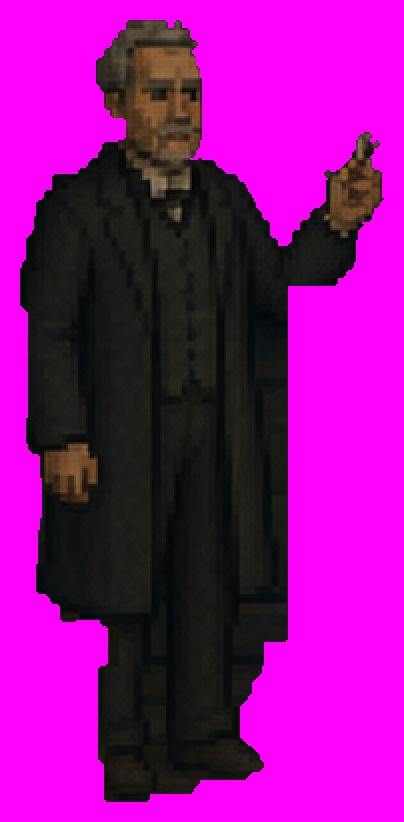
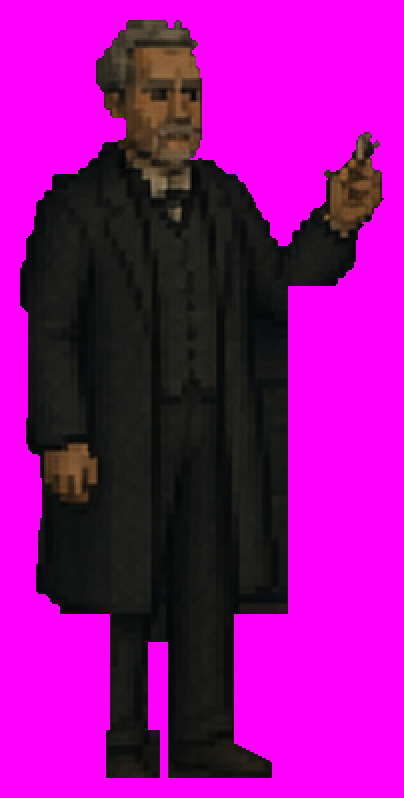
Room 4: Sowerby's legs traced below the coat
Tyler: "The judge is missing part of his leg." Below the hem GrabCut had
taken in wall beside and between the legs and 20 px of floor under the
boots; that wall, drawn 118 px from where it was painted, read as a piece
out of the leg. From the hem down the outline is now traced off the
derived picture (renders/room-04-sowerby-legs.png), ending at his soles on
the floor line, y 513, where the room's curve gives 437; the annotation's
beyond sample moved with it. No image operation.

Claude-Session: https://claude.ai/code/session_01FXbCurjq3gWmZKUYv89gwi

diff --git a/tools/art/room04-sowerby.py b/tools/art/room04-sowerby.py
@@ -23,10 +23,10 @@ moved 118 px right, into the gap between that chair and the table's left end
 -- still at the back wall and the chalkboard, boots on the same floor line.
 
 HIS HEIGHT IS THE ROOM'S CURVE. Room 4's depth note is a standing man of 470 at
-y 600 and 560 at y 840; at his feet (y 525) that is 442, and the room declares
+y 600 and 560 at y 840; at his soles (y 513) that is 437, and the room declares
 it as its `beyond` sample (reference/room-04/annotation.json). The edit drew
-him 391, which beside the seated judges read as a boy; he is resampled once
-to 442 (Lanczos, alpha re-thresholded), the same resampler every plate in the
+him 379, which beside the seated judges read as a boy; he is resampled once
+to 437 (Lanczos, alpha re-thresholded), the same resampler every plate in the
 room has been through.
 
 THE PENCIL. Errata 75: "Sowerby holds the pencil", and the plate paints the
@@ -59,7 +59,25 @@ GAP = 2
 WORK = (380, 100, 640, 540)     # GrabCut's window
 CHAIR_LINE = 300                # above it the base is plain wall and slate; below, the base's chair
 SHIFT = 118                     # clear of the front chair's back, short of the table's end
-HEIGHT = 442                    # the room's curve at y 525 (annotation `beyond`)
+HEIGHT = 437                    # the room's curve at his soles, y 513 (annotation `beyond`)
+# BELOW THE HEM, TRACED. Tyler, 2026-11-01, on the first cut in the game: "The
+# judge is missing part of his leg." Black trousers on a dark wall, with the
+# chair's seat touching the left leg: GrabCut took in wall beside and between
+# the legs, and 20 px of floor under the boots, and that wall, drawn 118 px
+# from where it was painted, read as a piece out of his leg. So from the coat's
+# hem down the outline is the derived picture's own, read off it brightened
+# (renders/room-04-sowerby-legs.png): rows, then the columns his legs and boots
+# fill, ending at the soles on the floor line.
+HEM = 432
+LEGS = [(HEM, 446, 452, 514),      # y0, y1, x0, x1: the tops of both legs, under the coat
+        (446, 490, 452, 471),      # the left leg: the chair seat ends at x 452
+        (446, 490, 481, 514),      # the right leg. Between them is wall: the plank seam
+                                   # at y 452 runs through x 471-481 level with the one
+                                   # right of his legs
+        (490, 514, 450, 477)]      # the left boot
+# THE RIGHT BOOT rises from its heel to its toe: wall above that line stays out.
+TOE = [(y, 481, 514 if y < 496 else min(533, 514 + 2 * (y - 496))) for y in range(490, 514)]
+SOLES = 514
 PENCIL = (772, 333, 850, 376)   # the judges' pencil on the plate, with its shadow, below judge 1's hands
 WOOD_FROM = 84                  # bare table this far right of it
 
@@ -112,8 +130,14 @@ cv2.grabCut(crop, gc, None, bgm, fgm, 8, cv2.GC_INIT_WITH_MASK)
 mask = np.zeros(lum.shape, bool)
 mask[Y0:Y1, X0:X1] = largest(ndi.binary_opening((gc == cv2.GC_FGD) | (gc == cv2.GC_PR_FGD), iterations=1))
 
+mask[HEM:, :] = False
+for y0, y1, x0, x1 in LEGS:
+    mask[y0:y1, x0:x1] = True
+for y, x0, x1 in TOE:
+    mask[y, x0:x1] = True
 ys, xs = np.where(mask)
 t, bot, l, rt = ys.min(), ys.max() + 1, xs.min(), xs.max() + 1
+assert bot == SOLES, bot
 fig = np.asarray(Image.open(DERIVED).convert('RGBA'))[t:bot, l:rt].copy()
 fig[..., 3] = np.where(mask[t:bot, l:rt], 255, 0)
 drawn = bot - t
@@ -165,3 +189,12 @@ view[~mask[t - 10:bot + 10, l - 10:rt + 10]] = [255, 0, 255]
 Image.fromarray(view).resize((view.shape[1] * 2, view.shape[0] * 2), Image.NEAREST).save(
     os.path.join(ROOT, 'renders/room-04-sowerby-cut.png'))
 print(json.dumps({k: record[k] for k in ('frames', 'anchor', 'drawnHeight', 'height', 'pixels')}))
+
+# The reading the legs were traced from: the derived picture brightened, with the traced outline.
+from PIL import ImageDraw, ImageEnhance
+legs = ImageEnhance.Brightness(Image.open(DERIVED).convert('RGB').crop((420, 400, 540, 530))).enhance(3.0)
+legs = legs.resize((960, 1040), Image.NEAREST)
+pen = ImageDraw.Draw(legs)
+for y0, y1, x0, x1 in LEGS + [(y, y + 1, x0, x1) for y, x0, x1 in TOE]:
+    pen.rectangle(((x0 - 420) * 8, (y0 - 400) * 8, (x1 - 420) * 8 - 1, (y1 - 400) * 8 - 1), outline=(255, 0, 255))
+legs.save(os.path.join(ROOT, 'renders/room-04-sowerby-legs.png'))

diff --git a/docs/36-issue-list.md b/docs/36-issue-list.md
@@ -4704,7 +4704,7 @@ Built under doc 55 section 3 after errata 73 cleared Q146. Reachable at `?room=n
 **Tyler's first look (2026-11-01), and what was done:**
 - **"The 4 guys in the back row all have pieces of them missing. The guy on the far left doesn't even have legs."**
 - **The judges: corrected, no image operation.** The first cut thresholded each pixel of master-minus-plate on its own; where a dark coat differs from the dark wall by less than resampling noise, those pixels dropped, leaving holes and loose outline pixels. `tools/art/room04-judges.py` now thresholds the difference averaged over 5 px, closes and fills it, keeps each man's largest piece, and fills it row by row. The lamp's brass foot and the corner Deke's hat covers in the master stay the plate's. Re-promoted provisionally; anchors and frames updated in `content/ambient/room-04-judge-{1,2,3}.json`.
-- **Sowerby: redrawn whole, room-04's fourth and last operation (Tyler: "Option 1, redraw Sowerby and fix the pencil too").** His legs were not missing from the cut: operation 3's prompt stood him "behind the LEFT end of the long table... the table hides him below the waist", and the table does not reach where he was drawn, so they existed in no source. Operation 4 (`reference/room-04/prompts/sowerby-02.txt`) edited the room as it stands, Thad and the re-cut judges in place, and asked for him full length at the chalkboard. His black coat on the dark wall defeats a plain threshold, so `tools/art/room04-sowerby.py` cuts him with GrabCut (OpenCV), seeded from the change above the chair line and his dark silhouette below it. The edit drew him where the front chair stands, in front of him, so he moves 118 px right into the gap between that chair and the table's end. The edit drew him 391 tall, which read as a boy beside the judges; he is resampled to the room's curve, 442 at his feet (y 525), which the annotation now declares as its `beyond` sample, and he is `standing` under the scale test. Texture 2.07 against Thad's 4.27; the judges measure 3.2 to 3.9.
+- **Sowerby: redrawn whole, room-04's fourth and last operation (Tyler: "Option 1, redraw Sowerby and fix the pencil too").** His legs were not missing from the cut: operation 3's prompt stood him "behind the LEFT end of the long table... the table hides him below the waist", and the table does not reach where he was drawn, so they existed in no source. Operation 4 (`reference/room-04/prompts/sowerby-02.txt`) edited the room as it stands, Thad and the re-cut judges in place, and asked for him full length at the chalkboard. His black coat on the dark wall defeats a plain threshold, so `tools/art/room04-sowerby.py` cuts him with GrabCut (OpenCV), seeded from the change above the chair line and his dark silhouette below it. The edit drew him where the front chair stands, in front of him, so he moves 118 px right into the gap between that chair and the table's end. The edit drew him 391 tall, which read as a boy beside the judges; he is resampled to the room's curve, 442 at his feet (y 525), which the annotation now declares as its `beyond` sample, and he is `standing` under the scale test. Texture 2.07 against Thad's 4.27; the judges measure 3.2 to 3.9. **Second look (Tyler: "The judge is missing part of his leg"):** below the coat GrabCut had taken in wall beside and between his legs and 20 px of floor under his boots, and that wall, drawn 118 px from where it was painted, read as a piece out of his leg. From the hem down his outline is now traced off the derived picture (`renders/room-04-sowerby-legs.png`), ending at his soles on the floor line, y 513, where the curve gives 437; the `beyond` sample moved with it.
 - **The pencil.** Operation 4 was asked to remove it too, but Thad stood in front of it in the base, so the edit never saw it: the builder's mistake in composing the base. The plate keeps the pencil, because the room without the Assay has it on the table and THE JUDGES' PENCIL's lines say so. While Sowerby is present he holds it, and a prop of his (`art/objects/room-04/pencil-cover.png`, the plate's own bare wood beside it, matched row by row) covers the one on the table. No operation remains for Room 4.
 - **The "THE" boxes in the inventory** were the item icons arriving late: the 1 KB sheet was deferred behind about two hundred actor frames, so a fixture or a loaded save, holding items from the first frame, drew the fallback label boxes until it arrived. The sheet is required at boot now (`engine/core/BootAssets.ts`).
 
